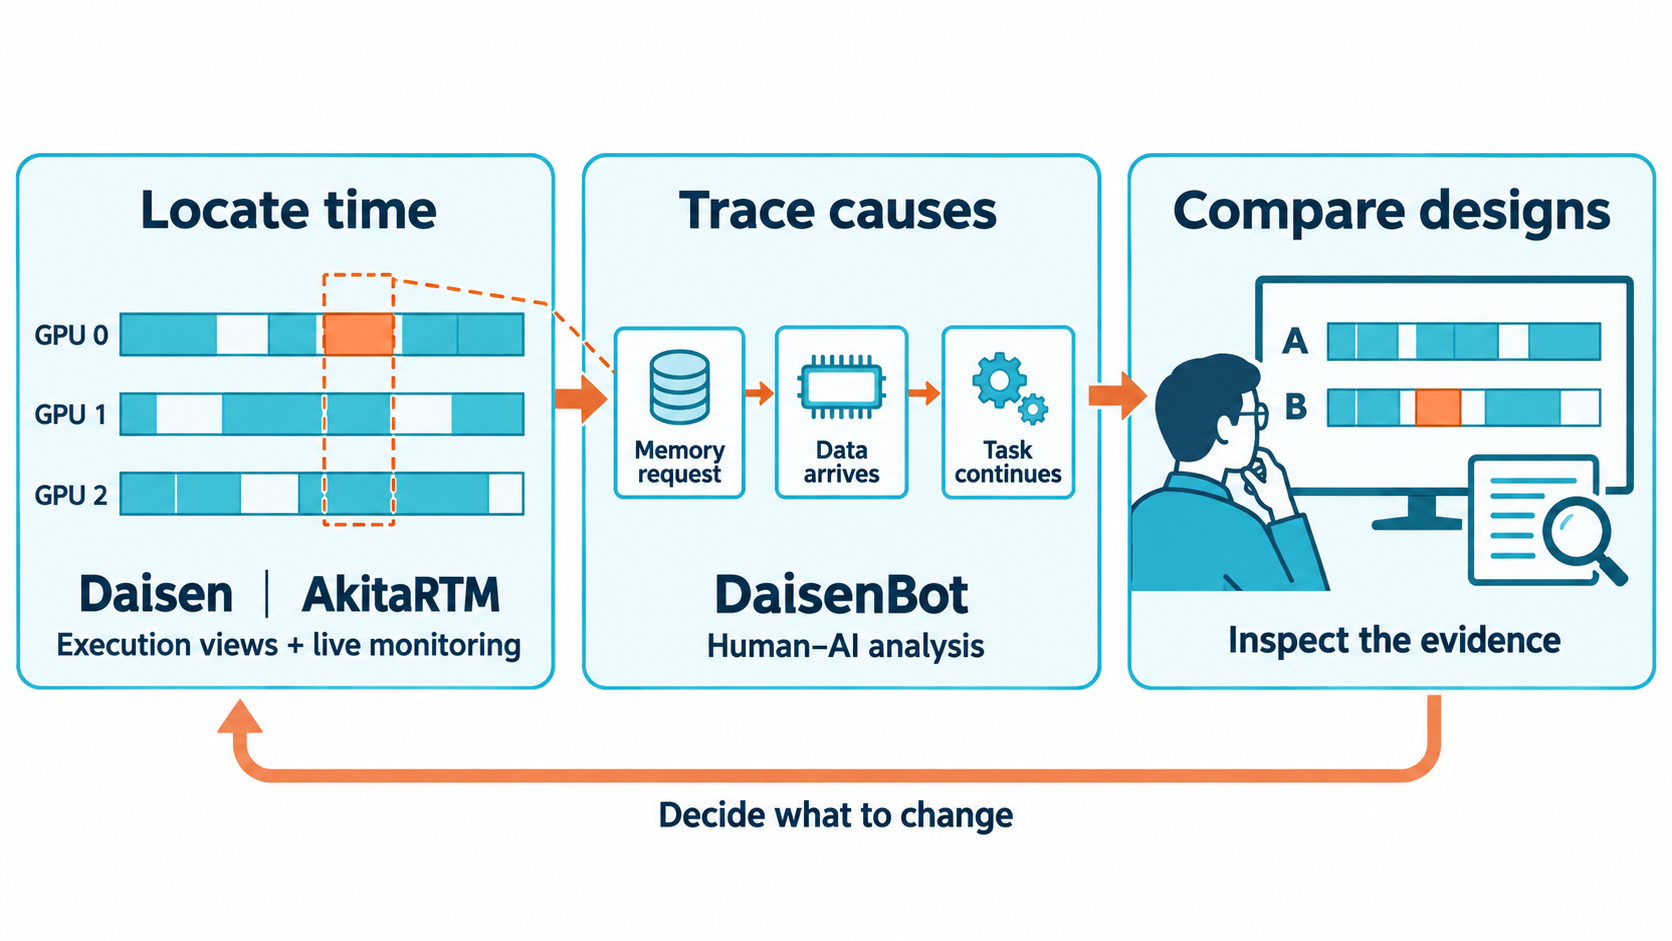
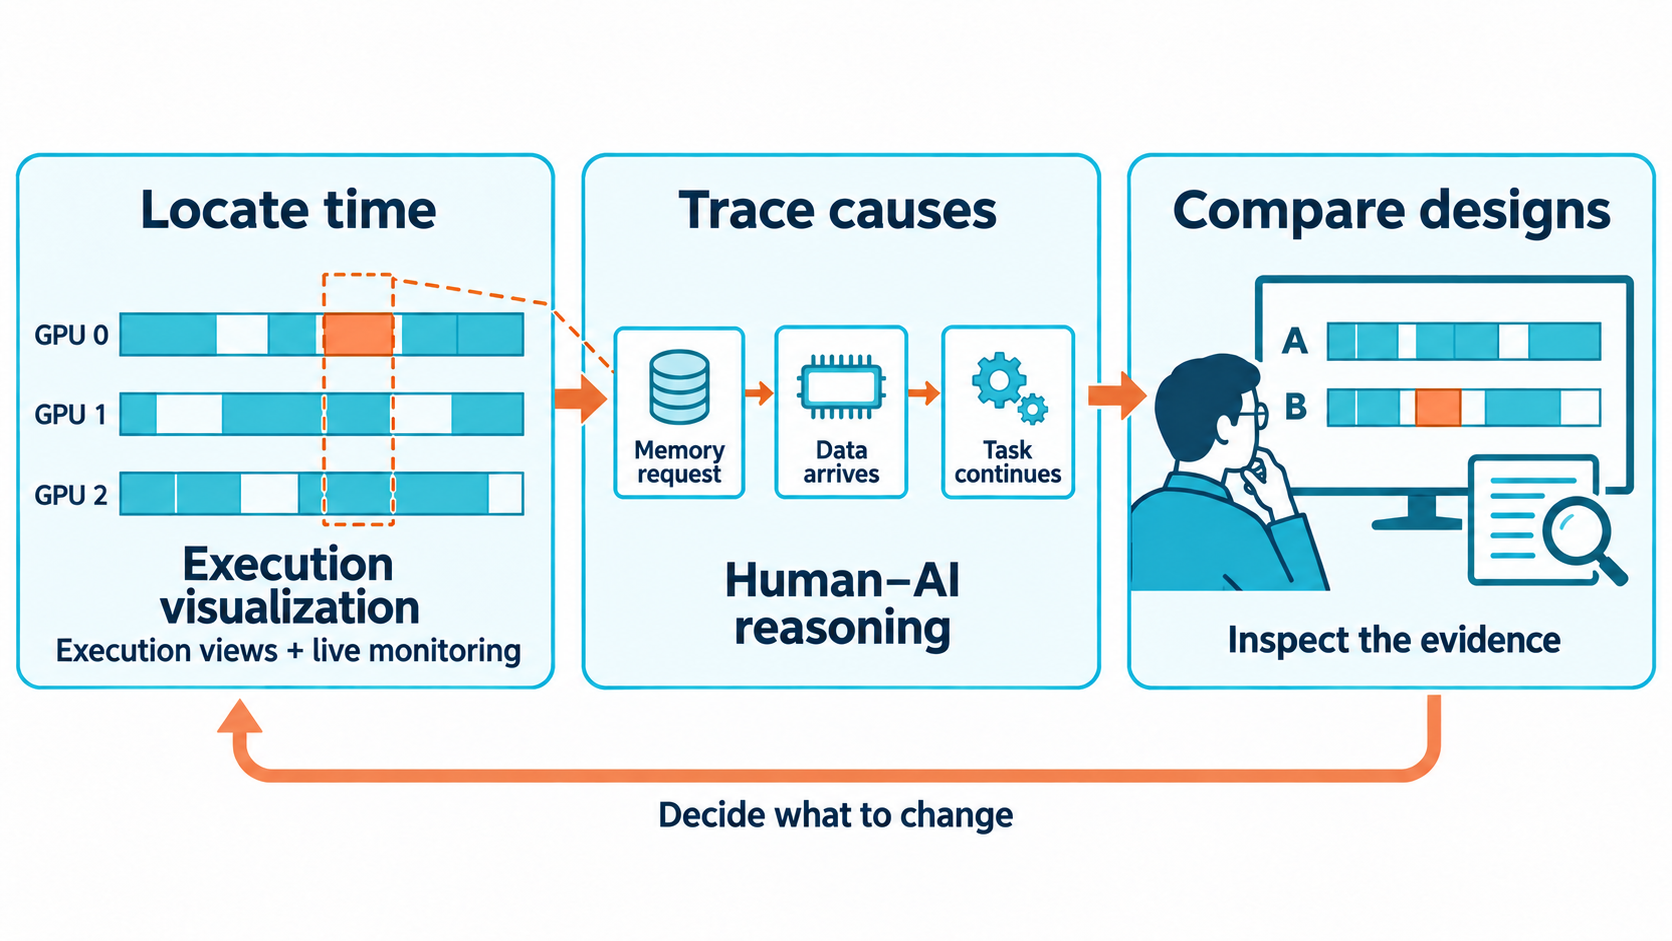
Refine topic navigation, typography, and explanatory figures

diff --git a/src/lib/data/research_topics.ts b/src/lib/data/research_topics.ts
@@ -21,7 +21,7 @@ export const researchTopics: ResearchTopic[] = [
         figure: {
             width: 1672,
             height: 941,
-            alt: 'Daisen and AkitaRTM expose execution timelines. A highlighted interval leads to a memory request, data arrival, and task-continuation chain. DaisenBot supports human-AI analysis. A researcher compares designs and decides what to change, guiding the next analysis.',
+            alt: 'Execution visualization highlights time spent in GPU activity and waits. A memory-request, data-arrival, and task-continuation chain supports causal analysis and human-AI reasoning. A researcher compares designs and decides what to change, guiding the next analysis.',
         },
         questions: [
             'How can a visualization connect execution details to the cause of a performance bottleneck?',
@@ -61,7 +61,7 @@ export const researchTopics: ResearchTopic[] = [
         figure: {
             width: 1536,
             height: 1024,
-            alt: 'TheBotCompany agent teams plan, implement, and verify research software. Code, experiments, and results go to human review; questions and corrections feed back into the work. Humans can be asked to make decisions.',
+            alt: 'Collaborative AI agents plan, implement, and verify research software. Code, experiments, and results go to human review; questions and corrections feed back into the next cycle.',
         },
         questions: [
             'How should agent teams divide the work of developing and maintaining research software?',
@@ -93,7 +93,7 @@ export const researchTopics: ResearchTopic[] = [
         figure: {
             width: 1672,
             height: 941,
-            alt: 'Start with an AI workload and system choices, then select detailed simulation, sampled simulation, regression prediction, or lightweight modeling. Validate the model for the design question before comparing performance. Related tools include Akita, MGPUSim, and TrioSim.',
+            alt: 'Start with an AI workload and system choices, then select detailed simulation, sampled simulation, regression prediction, or lightweight modeling. Validate the performance estimate for the design question, then refine the model as needed.',
         },
         questions: [
             'How much execution detail does a model need to answer a particular design question?',
@@ -140,7 +140,7 @@ export const researchTopics: ResearchTopic[] = [
         figure: {
             width: 1672,
             height: 941,
-            alt: 'Data movement connects compute tiles in wafer-scale GPUs and devices in multi-GPU systems. Research directions include address translation with HDPAT, page prefetching with RIPPLE, network traffic with NetCrafter, and electrical and optical interconnects.',
+            alt: 'Data moves among compute tiles in wafer-scale GPUs and devices in multi-GPU systems. Address translation maps virtual to physical addresses, page prefetching anticipates data movement, and traffic routing uses different network paths. Electrical and optical links connect compute units.',
         },
         questions: [
             'How should address translation work across a wafer-scale GPU?',

diff --git a/src/lib/components/research_topic.svelte b/src/lib/components/research_topic.svelte
@@ -5,44 +5,27 @@
     export let href = ''
 </script>
 
-<div class="research-topic">
-    {#if href}
-        <a class="thumbnail" {href} aria-label={title}>
-            <img src={img} alt="" width="1200" height="600" />
-        </a>
-    {:else}
-        <img
-            class="thumbnail"
-            src={img}
-            alt={title}
-            width="1200"
-            height="600"
-        />
-    {/if}
+<svelte:element
+    this={href ? 'a' : 'div'}
+    href={href || undefined}
+    aria-label={href ? title : undefined}
+    class="research-topic"
+>
+    <img
+        class="thumbnail"
+        src={img}
+        alt={href ? '' : title}
+        width="1200"
+        height="600"
+    />
     <div class="min-w-0">
-        <div class="title">
-            {#if href}
-                <a {href}>{title}</a>
-            {:else}
-                {title}
-            {/if}
-        </div>
+        <div class="title">{title}</div>
 
         <div class="content">
             {content}
         </div>
-
-        {#if href}
-            <a
-                class="mt-2 inline-block text-sm"
-                {href}
-                aria-label="Learn more about {title}"
-            >
-                Learn more →
-            </a>
-        {/if}
     </div>
-</div>
+</svelte:element>
 
 <style lang="postcss">
     .research-topic {
@@ -50,7 +33,20 @@
         @apply flex-col justify-start items-start;
         @apply lg:flex-row lg:justify-center;
         @apply mt-8 ml-2 pl-2;
-        /* @apply border-l-2 */
+    }
+
+    a.research-topic {
+        @apply no-underline;
+    }
+
+    a.research-topic:hover .title {
+        @apply underline;
+    }
+
+    a.research-topic:focus-visible {
+        outline: 2px solid var(--brand);
+        outline-offset: 6px;
+        border-radius: 0.5rem;
     }
 
     .thumbnail {

diff --git a/src/routes/(lab)/research/[slug]/+page.ts b/src/routes/(lab)/research/[slug]/+page.ts
@@ -6,8 +6,16 @@ import type publicationList from '../../../../../static/publication_list.json'
 type Publication = (typeof publicationList)[number]
 
 export const load: PageLoad = async ({ params, fetch }) => {
-    const topic = researchTopics.find((topic) => topic.slug === params.slug)
+    const topicIndex = researchTopics.findIndex(
+        (topic) => topic.slug === params.slug
+    )
+    const topic = researchTopics[topicIndex]
     if (!topic) error(404, 'Research topic not found')
+
+    const previous = researchTopics[
+        (topicIndex - 1 + researchTopics.length) % researchTopics.length
+    ]
+    const next = researchTopics[(topicIndex + 1) % researchTopics.length]
 
     const response = await fetch('/publication_list.json')
     if (!response.ok) error(500, 'Could not load publications')
@@ -15,6 +23,8 @@ export const load: PageLoad = async ({ params, fetch }) => {
 
     return {
         topic,
+        previousTopic: { slug: previous.slug, title: previous.title },
+        nextTopic: { slug: next.slug, title: next.title },
         publications: publications.filter((publication) =>
             topic.publicationTitles.includes(publication.title)
         ),

diff --git a/src/routes/(lab)/research/[slug]/+page.svelte b/src/routes/(lab)/research/[slug]/+page.svelte
@@ -14,11 +14,29 @@
 />
 
 <article class="mx-auto w-full min-w-0 max-w-5xl pb-12">
-    <header class="pb-6 pt-8 md:pb-8 md:pt-12">
+    <nav
+        aria-label="Research topics"
+        class="flex flex-wrap items-center justify-between gap-4 border-b py-5 text-sm text-primary"
+    >
+        <a href="/">Home</a>
+        <div class="flex gap-6">
+            <a
+                href="/research/{data.previousTopic.slug}"
+                aria-label="Previous topic: {data.previousTopic.title}"
+                rel="prev"
+            >← Previous topic</a>
+            <a
+                href="/research/{data.nextTopic.slug}"
+                aria-label="Next topic: {data.nextTopic.title}"
+                rel="next"
+            >Next topic →</a>
+        </div>
+    </nav>
+    <header class="py-6 md:py-8">
         <h1 class="page-title">{data.topic.title}</h1>
     </header>
 
-    <figure aria-label="{data.topic.title} research overview">
+    <figure class="mx-auto max-w-3xl" aria-label="{data.topic.title} research overview">
         <img
             src="/research/overview/{data.topic.slug}.png"
             alt={data.topic.figure.alt}

diff --git a/src/app.css b/src/app.css
@@ -104,10 +104,10 @@
     }
 
     .page-title {
-        font-size: clamp(2.25rem, 4.5vw, 3.5rem);
-        font-weight: 600;
-        line-height: 1.12;
-        letter-spacing: -0.025em;
+        font-size: clamp(1.875rem, 3vw, 2.5rem);
+        font-weight: 400;
+        line-height: 1.2;
+        letter-spacing: -0.015em;
         text-wrap: balance;
         color: var(--primary);
     }
